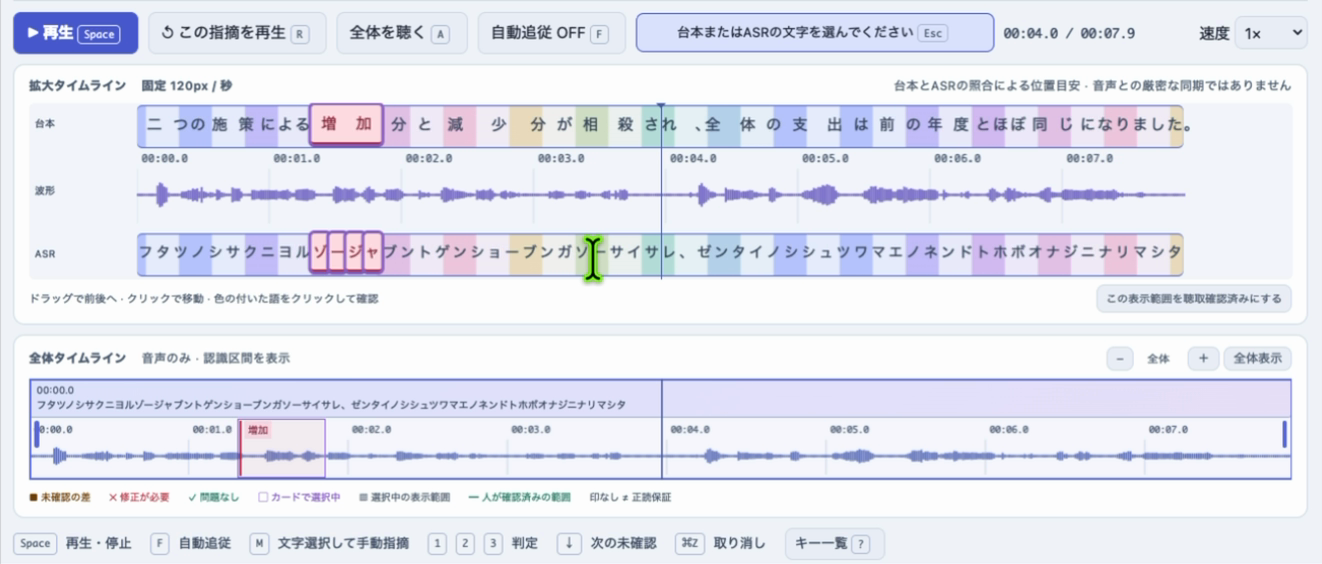
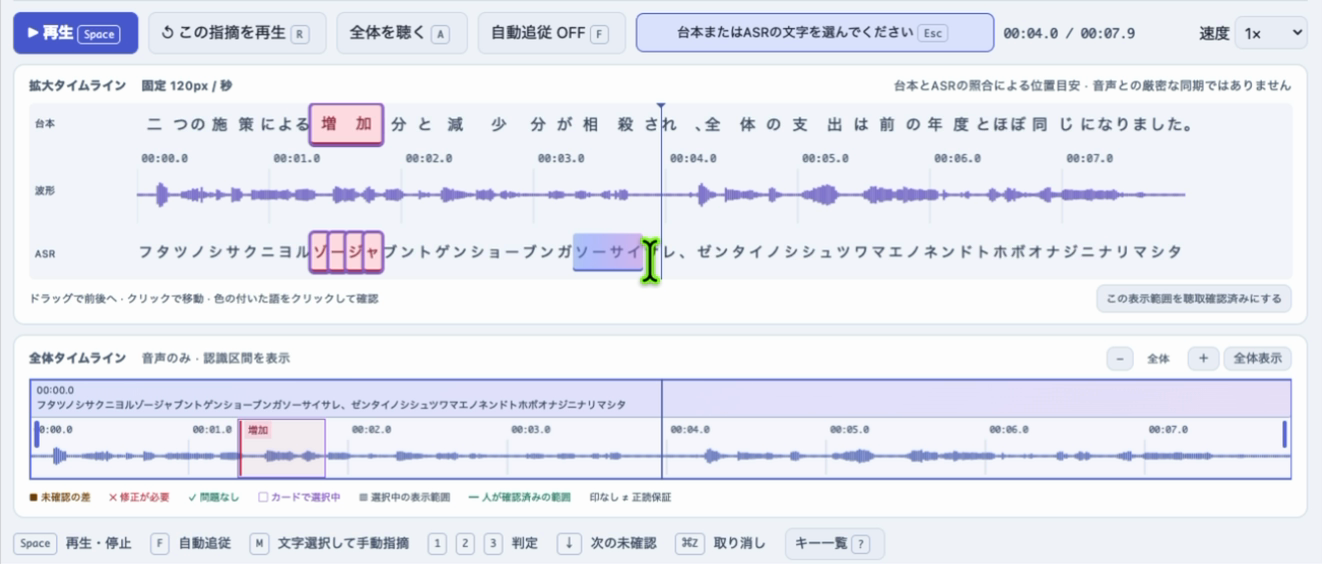
Show rainbow highlight only on user-selected text

Changed region(s): [[0.093, 0.3918, 0.8994, 0.5124], [0.093, 0.1809, 0.8994, 0.2713]]

diff --git a/docs/promotion-assets.md b/docs/promotion-assets.md
@@ -11,7 +11,7 @@
 | [review-card-and-queue.png](assets/screenshots/review-card-and-queue.png) | 自動検出カード、共通の入力欄、確認キューの切り抜き |
 | [audio-timeline-detail.png](assets/screenshots/audio-timeline-detail.png) | 台本・カナ・波形と全体タイムラインの切り抜き |
 | [queue-needs-repair.png](assets/screenshots/queue-needs-repair.png) | 要修正の件数と絞り込み |
-| [manual-selection-rainbow.png](assets/screenshots/manual-selection-rainbow.png) | 実操作動画6.9秒地点：虹色の文字選択モード（タイムラインの切り抜き） |
+| [manual-selection-rainbow.png](assets/screenshots/manual-selection-rainbow.png) | 実操作動画8.2秒地点：選択した「ソーサイ」だけを虹色で示す場面（タイムラインの切り抜き） |
 | [text-selection-mode.png](assets/screenshots/text-selection-mode.png) | 台本・ASRをなぞる文字選択モード |
 | [text-selection-manual-flag.png](assets/screenshots/text-selection-manual-flag.png) | 手動指摘の共通編集欄 |
 | [manual-flag-context-menu.png](assets/screenshots/manual-flag-context-menu.png) | 手動指摘の右クリック削除 |
